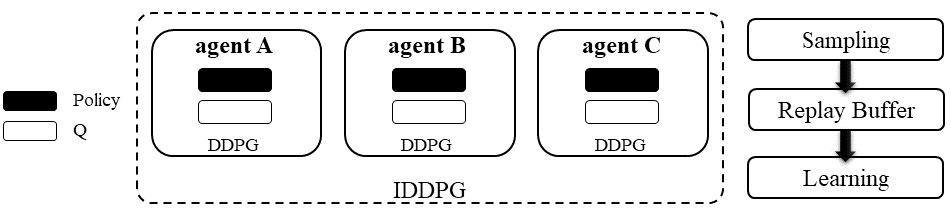
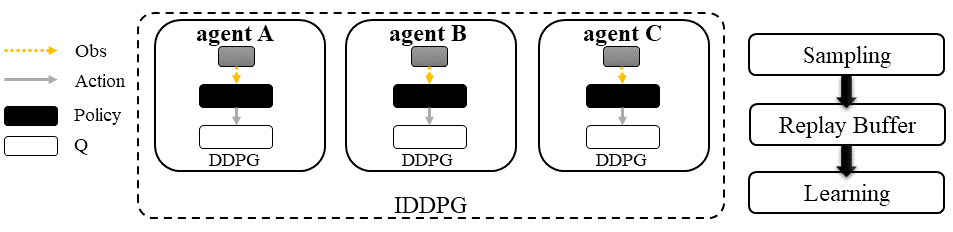
rst modify

diff --git a/docs/source/intro_marl/algorithm.rst b/docs/source/intro_marl/algorithm.rst
@@ -227,9 +227,10 @@ Policy learning:
 
 Here :math:`{\mathcal D}` is the replay buffer, which can be shared across agents.
 :math:`a` is the action taken.
+:math:`r` is the reward.
 :math:`s` is the observation/state.
 :math:`s'` is the next observation/state.
-:math:`d` is 1 when episode ends else 0.
+:math:`d` is set to `1`(True) when episode ends else `0`(False).
 :math:`\gamma` is discount value.
 :math:`\mu_{\theta_{\text{targ}}}` is policy target net, which can be shared across agents.
 :math:`\phi_{\text{targ}}` is Q target net, which can be shared across agents.
@@ -241,10 +242,15 @@ Workflow
 Each agent follows the standard DDPG learning pipeline as described in Preliminary. No information is shared across agents.
 
 .. figure:: ../images/IDDPG.png
-    :width: 400
+    :width: 500
     :align: center
 
     Independent Deep Deterministic Policy Gradient (IDDPG)
+
+.. admonition:: You Should Know
+
+    Some tricks like `gumble_softmax` enables DDPG policy net to output categorical action.
+
 
 Read list
 ^^^^^^^^^^^^^^^^^^^^^^^^^^^^^
@@ -394,13 +400,8 @@ Algorithm Description
 
 Multi-agent Deep Deterministic Policy Gradient (MADDPG) is an algorithm extends DDPG with a centralied Q function that takes not only observation and action from current agent,
 but also other agents. Similiar to DDPG, MADDPG also has a policy network :math:`\mu(s)` parameterized by :math:`\theta` to produce action value.
-While the Centralized Q value is calculated as :math:`Q(s,\mu(s))` and the Q network is parameterized by :math:`\phi`.
-
-which concurrently learns a Q-function and a policy.
-It uses off-policy data and the Bellman equation to learn the Q-function, and uses the Q-function to learn the policy.
-The motivation of DDPG is to tackling the problem that standard Q-learning can only be used in discrete action space (a finite number of actions).
-To extend Q function to continues control problem, DDPG adopts an extra policy network :math:`\mu(s)` parameterized by :math:`\theta` to produce action value.
-Then Q value is calculated as :math:`Q(s,\mu(s))` and the Q network is parameterized by :math:`\phi`.
+While the centralized Q value is calculated as :math:`Q(\mathbf{s},\mu(\mathbf{s}))` and the Q network is parameterized by :math:`\phi`.
+Note :math:`s` in policy network is the self observation/state while :math:`\mathbf{s}` in centralized Q is the joint observation/state which also includes the opponents.
 
 Math Formulation
 ^^^^^^^^^^^^^^^^^^
@@ -421,24 +422,28 @@ Policy learning:
     \max_{\theta} \underset{s \sim {\mathcal D}}{{\mathrm E}}\left[ Q_{\phi}(s, \mu_{\theta}(s)) \right].
 
 Here :math:`{\mathcal D}` is the replay buffer, which can be shared across agents.
-:math:`\mathbf{a}` is the action taken, including opponents.
-:math:`\mathbf{s}` is the observation/state, including opponents.
-:math:`\mathbf{s'}` is the next observation/state, including opponents.
-:math:`d` is 1 when episode ends else 0.
+:math:`\mathbf{a}` is an action set, including opponents.
+:math:`r` is the reward.
+:math:`\mathbf{s}` is the observation/state set, including opponents.
+:math:`\mathbf{s'}` is the next observation/state set, including opponents.
+:math:`d` is set to `1`(True) when episode ends else `0`(False).
 :math:`\gamma` is discount value.
 :math:`\mu_{\theta_{\text{targ}}}` is policy target net, which can be shared across agents.
 :math:`\phi_{\text{targ}}` is Q target net, which can be shared across agents.
 
-Note: Policy learning procedure of MADDPG is exactly same as DDPG/IDDPG
+.. admonition:: You Should Know
+
+    Policy inference of MADDPG is exactly same as DDPG/IDDPG. While the optimization of policy net is different.
 
 
 Workflow
 ^^^^^^^^^^^^^^^^^^^^^^^^^^^^^
 
-Each agent follows the standard DDPG learning pipeline as described in Preliminary. No information is shared across agents.
+In sampling stage, each agent follows the standard DDPG learning pipeline to inference the action but use a centralized Q function to compute Q value, which needs data sharing.
+In learning stage, each agent predict its next action use target policy and share with other agents before entering the training loop.
 
 .. figure:: ../images/MADDPG.png
-    :width: 400
+    :width: 500
     :align: center
 
     Multi-agent Deep Deterministic Policy Gradient (MADDPG)
